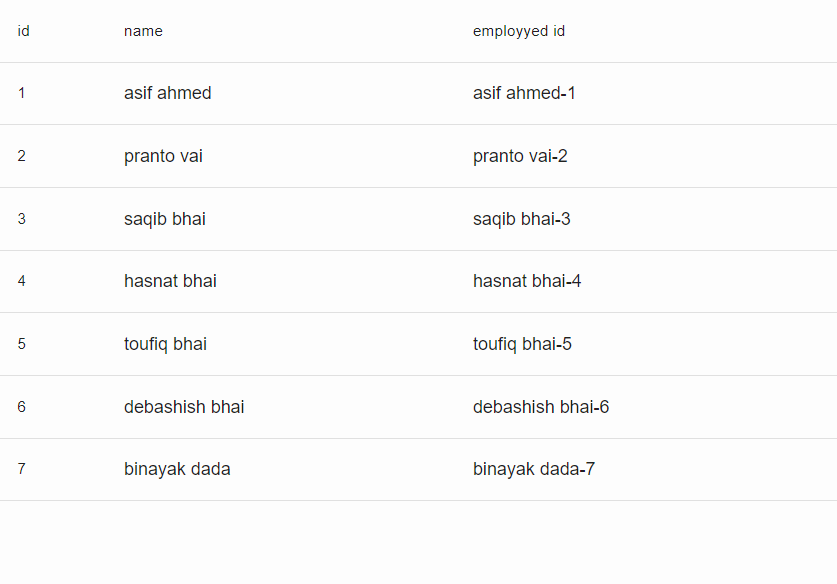
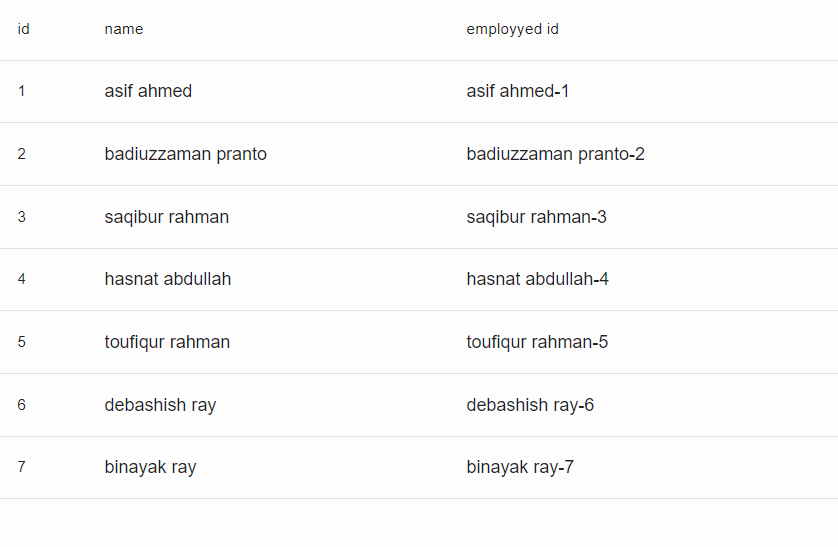
data updated

diff --git a/src/features/BasicTable/BasicTable.js b/src/features/BasicTable/BasicTable.js
@@ -13,12 +13,12 @@ const BasicTable = () => {
       columns={columns}
       dataSource={[
         { name: "asif ahmed", id: "1" },
-        { name: "pranto vai", id: "2" },
-        { name: "saqib bhai", id: "3" },
-        { name: "hasnat bhai", id: "4" },
-        { name: "toufiq bhai", id: "5" },
-        { name: "debashish bhai", id: "6" },
-        { name: "binayak dada", id: "7" },
+        { name: "badiuzzaman pranto", id: "2" },
+        { name: "saqibur rahman", id: "3" },
+        { name: "hasnat abdullah", id: "4" },
+        { name: "toufiqur rahman", id: "5" },
+        { name: "debashish ray", id: "6" },
+        { name: "binayak ray", id: "7" },
       ]}
       pagination={{
         pageLimit,

diff --git a/README.md b/README.md
@@ -54,7 +54,7 @@ Created a reusable **Table** component inspired from ant design which is fully *
         { name: "hasnat bhai", id: "4" },
         { name: "toufiq bhai", id: "5" },
         { name: "debashish bhai", id: "6" },
-        { name: "binayak dada", id: "7" },
+        { name: "binayak bhai", id: "7" },
       ]}
 
     />
@@ -118,7 +118,7 @@ By **configColumn** we can pass any **Props** from material ui to our **TableCel
         { name: "hasnat bhai", id: "4" },
         { name: "toufiq bhai", id: "5" },
         { name: "debashish bhai", id: "6" },
-        { name: "binayak dada", id: "7" },
+        { name: "binayak bhai", id: "7" },
       ]}
       pagination={{
         pageLimit,
